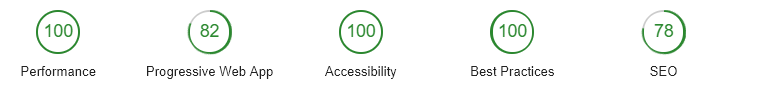
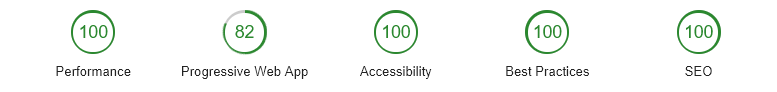
changed lighthouse scores after the changes

diff --git a/src/Components/Layout/Navbar/Navbar.jsx b/src/Components/Layout/Navbar/Navbar.jsx
@@ -56,6 +56,9 @@ class Navbar extends Component {
             toggleDrawer={this.toggleDrawer}
           />
           <IconButton
+            role="button"
+            aria-label="Open Mobile Menu"
+            tabIndex="-1"
             onClick={this.toggleDrawer('right', true)}
             className="nav-menu-burger"
           >
